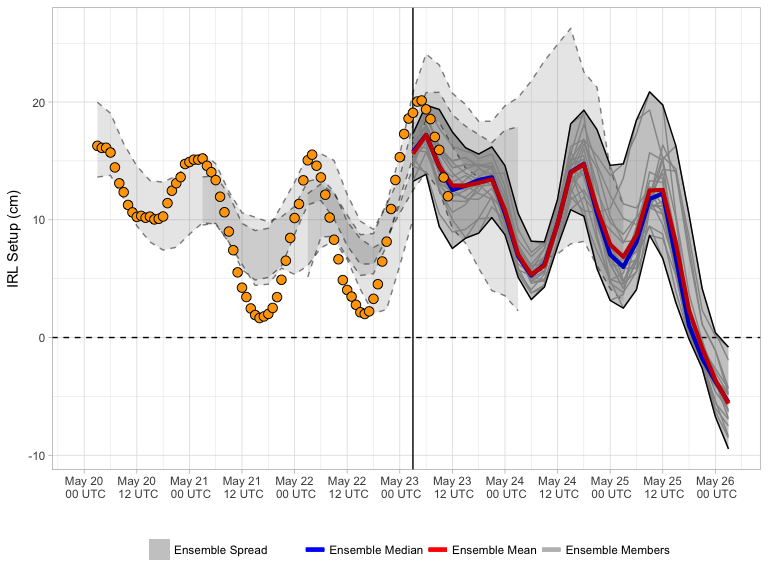
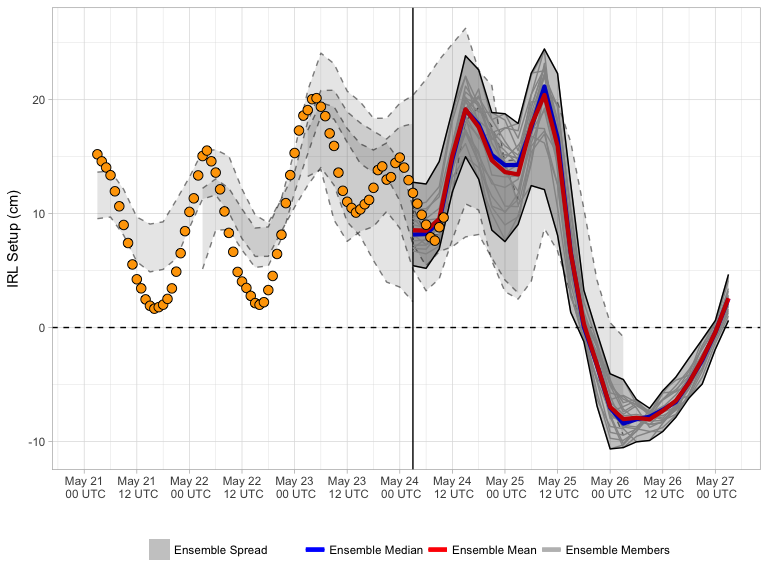
20170524 forecast update

diff --git a/docs/index.md b/docs/index.md
@@ -3,7 +3,7 @@ Current Forecast
 
 [![](img/raw_setup.png)](https://bhlmn.github.io/IRLSetup/img/raw_setup.png)
 
-> Forecast valid 2017-05-23 07:26:25.
+> Forecast valid 2017-05-24 07:05:40.
 
 Explanation
 -----------
@@ -15,7 +15,7 @@ water elevation in the northern IRL (near Titusville), and negative
 setup indicates the increase elevation in the southern IRL (near
 Sebastian). The x-axis displays the date and time in UTC. The solid
 vertical line represents the beginning of the most recent ensemble
-forecast (currently 2017-05-22 18:00:00). For this most recent forecast,
+forecast (currently 2017-05-23 18:00:00). For this most recent forecast,
 the ensemble spread (grey shading) is bound by solid black lines, with
 individual members represented by faint grey lines. The ensemble mean
 and median for this are represented by the red and blue curves,
